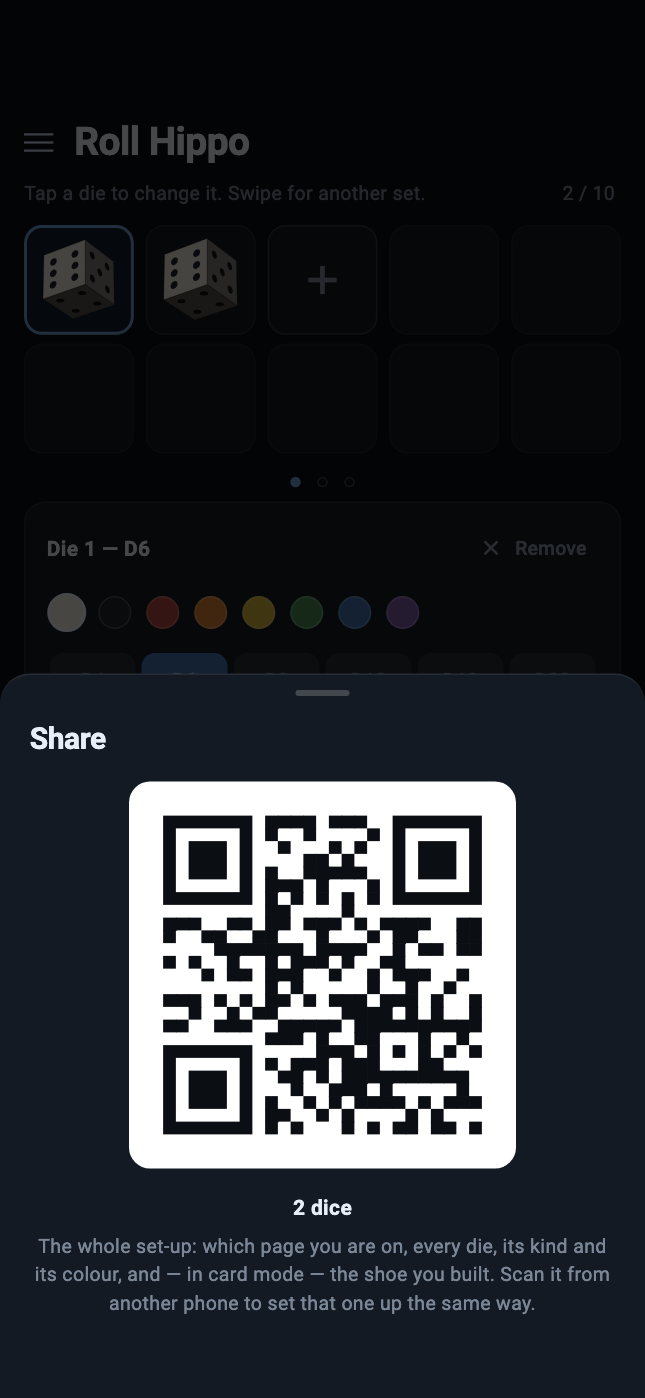
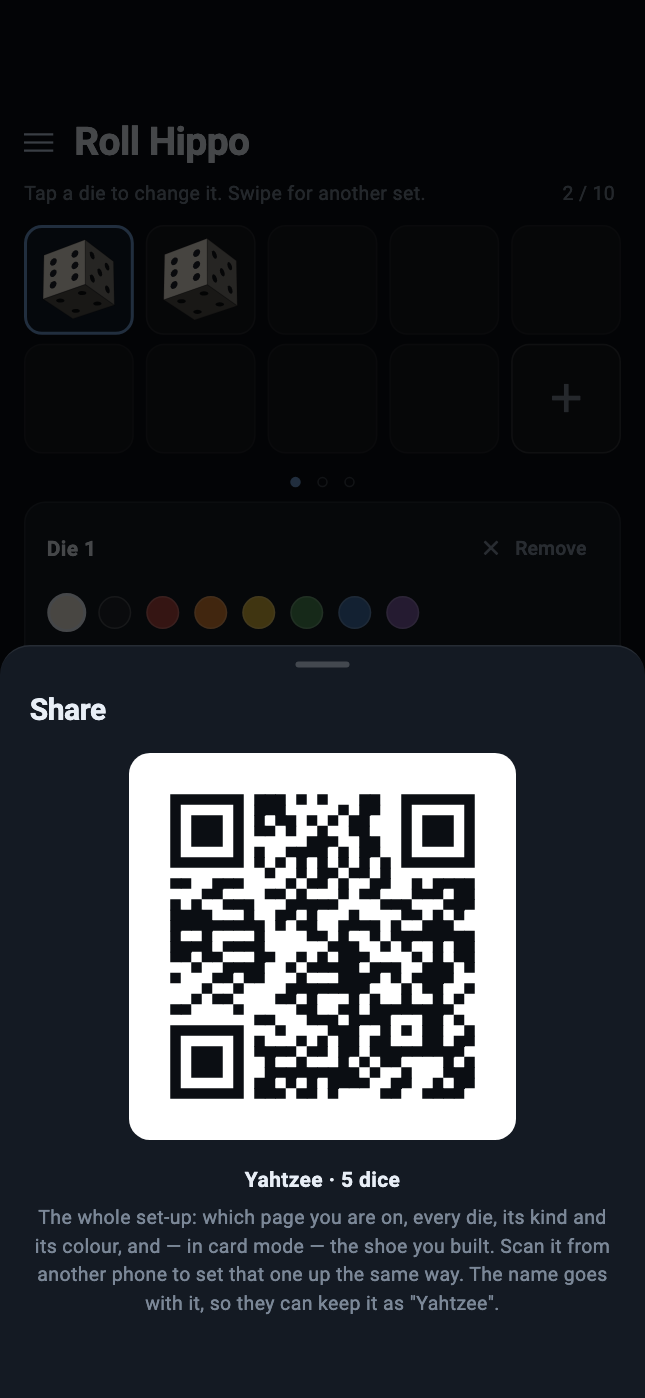
Updated roll hippo site

diff --git a/website/rollhippo/docs/index.html b/website/rollhippo/docs/index.html
@@ -18,13 +18,13 @@
   <meta name="viewport" content="width=device-width, initial-scale=1.0" />
   <meta name="theme-color" content="#D7263D" />
   <link rel="icon" type="image/svg+xml" href="/favicon.svg" />
-  <meta name="description" content="The Roll Hippo user guide: setting up your dice, rolling them, holding one, the card table, saved profiles, sharing a set-up by QR code, and what every setting does." />
+  <meta name="description" content="The Roll Hippo user guide: the tour that runs on your first launch, setting up your dice or a shoe of cards, rolling and dealing, holding a die, saved profiles, sharing a set-up by QR code, and what every setting does." />
   <title>User guide — Roll Hippo</title>
   <link rel="canonical" href="https://hippoherd.com/rollhippo/docs/" />
   <meta property="og:type" content="article" />
   <meta property="og:site_name" content="Hippo Herd" />
   <meta property="og:title" content="Roll Hippo — user guide" />
-  <meta property="og:description" content="Setting up your dice, rolling them, holding one, the card table, saved profiles, sharing by QR code, and what every setting does." />
+  <meta property="og:description" content="The tour on your first launch, setting up your dice or a shoe of cards, rolling and dealing, holding a die, saved profiles, sharing by QR code, and what every setting does." />
   <meta property="og:url" content="https://hippoherd.com/rollhippo/docs/" />
   <meta property="og:image" content="https://hippoherd.com/rollhippo/images/og.png" />
   <meta name="twitter:card" content="summary_large_image" />
@@ -216,6 +216,7 @@
   <aside class="doc-toc">
     <p>Contents</p>
     <a href="#start">Getting started</a>
+    <a href="#tour">The guided tour</a>
     <a href="#picker">Setting up your dice</a>
     <a href="#rolling">Rolling</a>
     <a href="#reading">Reading and holding</a>
@@ -232,26 +233,86 @@
   <main class="doc-body">
     <h1>Roll Hippo — user guide</h1>
     <p class="doc-lede">
-      Roll Hippo turns your phone into a dice tray. You choose the dice once;
-      after that you hold the phone upright, shake it, set it down, and read
-      what it says. This guide covers every screen, every gesture and every
+      Roll Hippo gives you a roll two ways. Deal a card from a shoe holding every
+      outcome your dice could produce, or throw the dice themselves — you choose
+      the set-up once, then hold the phone upright, shake it, set it down and
+      read what it says. This guide covers every screen, every gesture and every
       setting.
     </p>
 
     <h2 id="start">Getting started</h2>
     <p>
-      Open the app and you are on the <strong>picker</strong>. If you have saved
-      set-ups already, Roll Hippo asks which one you want to open before
-      anything else — pick one, or choose <strong>+ New Profile</strong> to
-      start from the default: two white six-sided dice.
+      Open the app and you are on the <strong>picker</strong>. It starts on the
+      default, two white six-sided dice, and any set-ups you have saved are
+      listed as a row of profiles underneath it, so opening one is a single tap
+      rather than a question asked before you can see anything.
     </p>
     <p>
-      There are four screens in all, and you will spend nearly all your time on
-      two of them: the picker, where the dice are chosen, and the tray, where
-      they are thrown. The card table replaces the tray when you would rather
-      deal than roll, and the scanner reads someone else's set-up off their
-      screen.
+      The very first launch is the one exception: a short
+      <a href="#tour">tour</a> runs over the top of the picker, and it is the
+      only thing the app ever puts in front of you unasked. Skip it or finish
+      it and every launch afterwards is the picker, straight away, every time.
     </p>
+    <p>
+      There are four screens in all. The picker is where everything is chosen,
+      and it has two pages: a set of dice, or a shoe of cards standing in for
+      one. Whichever page you are on is what the button along the bottom does —
+      it reads <strong>Roll</strong> or <strong>Deal</strong> — and it takes you
+      to the screen that matches, the tray or the card table. The fourth is the
+      scanner, which reads someone else's set-up off their screen.
+    </p>
+
+    <h2 id="tour">The guided tour</h2>
+    <figure class="doc-figure">
+      <img src="../images/screens/07-tutorial.png" width="645" height="1398" loading="lazy"
+           alt="The tour's second card over the picker: the rack of five assorted dice is lit and ringed in blue while the rest of the screen is dimmed, with the card headed 'Fill the rack' hanging just beneath it.">
+      <figcaption>The card names one thing, and that is the only part left lit.</figcaption>
+    </figure>
+    <p>
+      The first time you open Roll Hippo, a short tour runs over the top of the
+      app: seven cards, one idea each. <strong>Swipe</strong> the card sideways
+      for the next one, or tap <strong>Next</strong>, or tap any of the dots to
+      jump straight to it. <strong>Skip</strong> leaves at any point and
+      <strong>Done</strong> closes the last one.
+    </p>
+    <p>
+      It is not a slideshow of pictures. Each card is said in front of the
+      screen it is describing — the card page, the dice page, or a tray with
+      dice actually in it — and the one thing it is naming is the only part of
+      that screen left lit. The tray is real, too: on the card about throwing,
+      shaking the phone throws the dice behind it.
+    </p>
+    <p>Seven cards, in the order you would use the app:</p>
+    <ul>
+      <li>the two pages — dice and cards — and the swipe between them;</li>
+      <li>the rack, and how a die gets its kind and its colour;</li>
+      <li>profiles: <strong>+ New</strong> to keep a set-up, and the press-and-hold
+        menu behind every one of them;</li>
+      <li><strong>Roll</strong> and <strong>Deal</strong>, and which of the two
+        the button is;</li>
+      <li><strong>Throw</strong> and <strong>Draw</strong>, and the shake that
+        does the same thing;</li>
+      <li>the three separate sets, and the swipe between them in the tray;</li>
+      <li>the menu at the top left, and motion control inside it.</li>
+    </ul>
+    <p>
+      Nothing in the tour changes anything. Only the card of words takes taps —
+      the screen behind it is there to be looked at rather than used — and the
+      dice and the shoe it demonstrates with are the tour's own rather than
+      yours. Your saved profiles are the exception, and deliberately: the card
+      about profiles shows the row you actually have. Whatever you had on the
+      picker is exactly where you left it when the tour closes, and no profile
+      is written.
+    </p>
+    <div class="doc-note">
+      <p>
+        <strong>To see it again</strong>, open the menu at the top left of the
+        picker and choose <strong>How to use</strong>, at the bottom. The app
+        only ever offers the tour by itself once; after that it is one tap away
+        and never in the way.
+      </p>
+    </div>
+    <div class="doc-clear"></div>
 
     <h2 id="picker">Setting up your dice</h2>
     <figure class="doc-figure">
@@ -375,9 +436,11 @@
     </figure>
     <p>
       Swipe the picker's editor panel sideways — or tap the second of the two
-      dots below it — for <strong>card mode</strong>. Instead of throwing dice,
-      you deal from a shoe in which every card carries one possible outcome of
-      them.
+      dots below it — for <strong>card mode</strong>. It is the picker's other
+      page rather than a corner of it, and an alternative to the dice rather
+      than a substitute for it: every card in the shoe carries one possible
+      outcome of the dice it stands for, so dealing one is the same wager as
+      throwing them.
     </p>
     <ul>
       <li><strong>How many dice</strong> a card stands for: one, two or three.
@@ -397,10 +460,11 @@
       <p>
         <strong>A shoe is not a pair of dice, and that is the point.</strong> It
         holds every <em>ordered</em> outcome — 1-2 and 2-1 are two different
-        ways for a pair to land, so a deck holding each pair only once would
-        quietly halve the odds of every double. It differs from rolling in the
-        one way a shoe always does: cards are drawn without replacement, so what
-        has gone is gone until the cut comes round.
+        ways for a pair to land where snake eyes has only one, so a deck holding
+        each pair only once would make every double twice as likely as it is. It
+        differs from rolling in the one way a shoe always does: cards are drawn
+        without replacement, so what has gone is gone until the cut comes round,
+        and that is the whole reason to reach for one.
       </p>
     </div>
     <div class="doc-clear"></div>
@@ -422,7 +486,13 @@
         screen becomes <em>Roll Hippo — &lt;name&gt;</em>.</li>
       <li><strong>Press and hold</strong> a profile for its menu:
         <strong>Save</strong> (write what is on screen into that profile),
-        <strong>Rename</strong> and <strong>Delete</strong>.</li>
+        <strong>Rename</strong>, <strong>Share</strong> (see below) and
+        <strong>Delete</strong>.</li>
+      <li><strong>Press and hold + New</strong> for <strong>Reset</strong>,
+        which puts the picker back to the set-up the app opens with &mdash; two
+        white six-sided dice in one set, nothing in the other two, and the dice
+        page. Your saved profiles are not touched; only the screen is. Its menu
+        has a <strong>Share</strong> too.</li>
     </ul>
     <div class="doc-note">
       <p>
@@ -445,14 +515,22 @@
       <figcaption>The whole set-up as one square.</figcaption>
     </figure>
     <p>
-      The menu button at the top left of the picker has three entries.
-      <strong>Share</strong> turns the set-up currently on screen into a QR
-      code: every die, its kind and its colour, which page you are on, the shoe
-      you built, and the name you saved it under.
+      <strong>Share</strong> is on the menu a profile gives you when you press
+      and hold it, beside Save, Rename and Delete. It turns that profile into a
+      QR code: every die, its kind and its colour, which page you are on, the
+      shoe you built, and the name it is saved under.
     </p>
     <p>
-      <strong>Scan</strong> opens the camera and reads one. What happens next
-      depends on the name the code carries:
+      A saved profile shares <em>what it holds</em>, not what happens to be on
+      screen &mdash; so a profile you have edited without saving still shares
+      the version you kept, and the name on the code always describes the dice
+      inside it. <strong>+ New</strong> has a Share of its own, and that one
+      sends what is on screen at that moment, with no name attached.
+    </p>
+    <p>
+      <strong>Scan</strong> is in the menu button at the top left of the picker,
+      alongside Settings and How to use. It opens the camera and reads a code.
+      What happens next depends on the name the code carries:
     </p>
     <ul>
       <li>A code with <strong>no name</strong> simply opens, unnamed.</li>
@@ -468,7 +546,8 @@
 
     <h2 id="settings">Settings</h2>
     <p>
-      <strong>Settings</strong>, on the same menu, has two controls.
+      <strong>Settings</strong> is the first entry on that same menu — Settings,
+      Scan, and <a href="#tour">How to use</a> — and it has two controls.
     </p>
     <h3>Motion control</h3>
     <p>
@@ -556,6 +635,12 @@
       deliberately ignores the phone and Throw is the only way to roll. The
       prompt on an unthrown tray tells you which of the two you are in: it reads
       "Shake to roll" or "Tap Throw to roll".
+    </p>
+    <h3>I skipped the tour</h3>
+    <p>
+      Open the menu at the top left of the picker and choose
+      <strong>How to use</strong>. It starts again from the first card, as many
+      times as you like.
     </p>
     <h3>A die will not re-roll</h3>
     <p>

diff --git a/website/rollhippo/index.html b/website/rollhippo/index.html
@@ -24,13 +24,13 @@
   <meta name="viewport" content="width=device-width, initial-scale=1.0" />
   <meta name="theme-color" content="#D7263D" />
   <link rel="icon" type="image/svg+xml" href="/favicon.svg" />
-  <meta name="description" content="Roll Hippo is a dice tray for iPhone and Android. Set your dice up once, then the phone is the tray — hold it upright, shake it, set it down, read what it says. Free, open source, and completely offline." />
-  <title>Roll Hippo — the phone is the tray</title>
+  <meta name="description" content="Roll Hippo is a shoe of cards and a dice tray for iPhone and Android — deal one card per possible roll, or shake the phone and throw the dice themselves. Free, open source, and completely offline." />
+  <title>Roll Hippo — the phone is the tray, and the shoe</title>
   <link rel="canonical" href="https://hippoherd.com/rollhippo/" />
   <meta property="og:type" content="website" />
   <meta property="og:site_name" content="Hippo Herd" />
-  <meta property="og:title" content="Roll Hippo — the phone is the tray" />
-  <meta property="og:description" content="A dice tray for iPhone and Android. Shake the phone; the dice tumble on a real rigid-body simulation and settle where they settle. Free, open source, completely offline." />
+  <meta property="og:title" content="Roll Hippo — the phone is the tray, and the shoe" />
+  <meta property="og:description" content="A shoe of cards and a dice tray for iPhone and Android. Deal one card from every outcome your dice could produce, or shake the phone and watch them tumble. Free, open source, completely offline." />
   <meta property="og:url" content="https://hippoherd.com/rollhippo/" />
   <meta property="og:image" content="https://hippoherd.com/rollhippo/images/og.png" />
   <meta property="og:image:width" content="1200" />
@@ -221,13 +221,15 @@
       <img src="/marks/rollhippo.svg" width="38" height="38" alt="">
       Roll Hippo
     </div>
-    <h1>The phone <span class="accent">is</span> the tray.</h1>
+    <h1>The phone <span class="accent">is</span> the tray. And the shoe.</h1>
     <p class="rh-hero-lede">
-      Set your dice up once — up to ten of them, any mixture of D4 through D20,
-      each its own colour. After that, hold the phone upright and shake it. The
-      dice tumble inside a box the size of the screen on a real rigid-body
-      simulation, bounce off the walls and off each other, and settle where they
-      settle. Then you read what they say.
+      Two ways to get a roll, and Roll Hippo is equally both. Deal a card from a
+      shoe holding every outcome your dice could produce, drawn without
+      replacement and cut where you like — the same wager as the throw, with the
+      one thing a shoe adds. Or throw them for real: set your dice up once, up to
+      ten of them, any mixture of D4 through D20, then hold the phone upright and
+      shake it. They tumble inside a box the size of the screen on a real
+      rigid-body simulation and settle where they settle.
     </p>
 
     <div class="rh-stores">
@@ -276,13 +278,21 @@
 <section class="section section-alt">
   <div class="section-inner">
     <p class="section-tag">What it does</p>
-    <h2 class="section-title">A dice tray, simulated properly</h2>
+    <h2 class="section-title">A shoe and a tray, both done properly</h2>
     <p class="section-body">
       The box is the size of your phone and 20&nbsp;cm deep, and it is simulated
       in the phone's own frame of reference — so the walls never move and the
       acceleration inside them comes straight off the accelerometer. There is no
       shake threshold and no gesture to learn, because tilting and shaking are
       the same number arriving from the same sensor.
+    </p>
+    <p class="section-body">
+      The shoe is the other half, and it is the same care applied to a different
+      question. A deck holds every <em>ordered</em> outcome of your dice, once
+      each, so drawing a card is the same wager as making the throw it stands
+      for. What it adds is the thing a shoe has always been for: it is dealt
+      without replacement, so what has already gone tells you something about
+      what is left, and you decide with the cut how much of that you want.
     </p>
 
     <div class="callout">
@@ -307,6 +317,15 @@
         when your hands are full.</p>
       </div>
       <div class="feature-card">
+        <div class="feature-icon"><svg width="24" height="24" viewBox="0 0 24 24" fill="none" stroke="currentColor" stroke-width="2" stroke-linecap="round" stroke-linejoin="round" aria-hidden="true"><rect x="3" y="4" width="12" height="16" rx="2"/><path d="M8 4V2.8A1.8 1.8 0 0 1 10.2 1l7 1.9A1.8 1.8 0 0 1 18.4 5l-2.6 15"/></svg></div>
+        <h3>Or deal it from a shoe</h3>
+        <p>One card for every <em>ordered</em> outcome of your dice — 1-2 and
+        2-1 are two ways for a pair to land where snake eyes has only one, so a
+        deck that held each pair once would make every double twice as likely
+        as it is. Up to three decks, dealt without replacement. Cut it where you
+        like and it reshuffles when it gets there.</p>
+      </div>
+      <div class="feature-card">
         <div class="feature-icon"><svg width="24" height="24" viewBox="0 0 24 24" fill="none" stroke="currentColor" stroke-width="2" stroke-linecap="round" stroke-linejoin="round" aria-hidden="true"><rect x="3" y="3" width="18" height="18" rx="3"/><circle cx="8.5" cy="8.5" r="1.4" fill="currentColor"/><circle cx="15.5" cy="15.5" r="1.4" fill="currentColor"/><circle cx="12" cy="12" r="1.4" fill="currentColor"/></svg></div>
         <h3>Six solids, ten dice, your colours</h3>
         <p>D4, D6, D8, D10, D12 and D20 — every one of them a real polyhedron
@@ -321,14 +340,6 @@
         tray you are not looking at is not simulated at all, so the numbers a
         group rolled stay the numbers it rolled — a swipe cannot shake them,
         and neither can anything happening next door.</p>
-      </div>
-      <div class="feature-card">
-        <div class="feature-icon"><svg width="24" height="24" viewBox="0 0 24 24" fill="none" stroke="currentColor" stroke-width="2" stroke-linecap="round" stroke-linejoin="round" aria-hidden="true"><rect x="3" y="4" width="12" height="16" rx="2"/><path d="M8 4V2.8A1.8 1.8 0 0 1 10.2 1l7 1.9A1.8 1.8 0 0 1 18.4 5l-2.6 15"/></svg></div>
-        <h3>The same dice, dealt as cards</h3>
-        <p>A shoe holding every <em>ordered</em> outcome of your dice — 1-2 and
-        2-1 are two ways for a pair to land, so a deck that held each pair once
-        would quietly halve the odds of every double. Cut it where you like and
-        it reshuffles when it gets there.</p>
       </div>
       <div class="feature-card">
         <div class="feature-icon"><svg width="24" height="24" viewBox="0 0 24 24" fill="none" stroke="currentColor" stroke-width="2" stroke-linecap="round" stroke-linejoin="round" aria-hidden="true"><rect x="3" y="3" width="7" height="7"/><rect x="14" y="3" width="7" height="7"/><rect x="3" y="14" width="7" height="7"/><path d="M14 14h3v3h-3zM18 18h3v3h-3z"/></svg></div>
@@ -378,7 +389,7 @@
     <figure class="rh-shot">
       <img src="images/screens/04-cards.png" width="645" height="1398" loading="lazy"
            alt="The card table: a card printed with a green die and a red die, dealt onto the glass.">
-      <figcaption><b>Or deal them</b>The card table draws from a shoe of every outcome, without replacement.</figcaption>
+      <figcaption><b>Deal them instead</b>One card per possible roll, drawn from the shoe without replacement.</figcaption>
     </figure>
     <figure class="rh-shot">
       <img src="images/screens/05-profiles.png" width="645" height="1398" loading="lazy"

diff --git a/website/rollhippo/privacy.html b/website/rollhippo/privacy.html
@@ -14,6 +14,15 @@
        and lib/app/profiles.dart, and "no network" from there being no
        networking code in lib/ at all.
 
+       The claim about INTERNET is true because of one file —
+       android/app/src/release/AndroidManifest.xml, which removes a permission
+       ML Kit's telemetry queue declares on the app's behalf. Delete that file
+       and the paragraph below becomes a lie in the next release build, which
+       is the whole reason it says what it says. `aapt2 dump permissions` on
+       the built APK is how to check it; reading the merged manifest under
+       build/app/intermediates/ is not, because the APK is the artefact that
+       actually ships and the intermediate is only on its way there.
+
        It does NOT replace hippoherd.com/privacy.html, which covers the
        website. This one covers the app. Both are linked from the front page.
 
@@ -84,6 +93,17 @@
     operating system itself would refuse a network connection the app tried to
     make; and there is no networking code in the app to make one. Roll Hippo
     works with the SIM removed and in aeroplane mode, and behaves identically.
+  </p>
+  <p>
+    One network-related permission does remain in the Android package, and it is
+    better named here than left to be discovered:
+    <code>ACCESS_NETWORK_STATE</code>, which the barcode-reading library behind
+    the QR scanner declares for itself. It grants the ability to <em>ask
+    whether</em> a network exists, and nothing else — it cannot open a
+    connection, and with <code>INTERNET</code> removed there is nothing in the
+    package that could act on the answer. It is left in place only because
+    taking a permission away from a library that expects to have it is a way to
+    break the scanner, not a way to make the app quieter than it already is.
   </p>
 
   <h2>What is stored, and where</h2>
